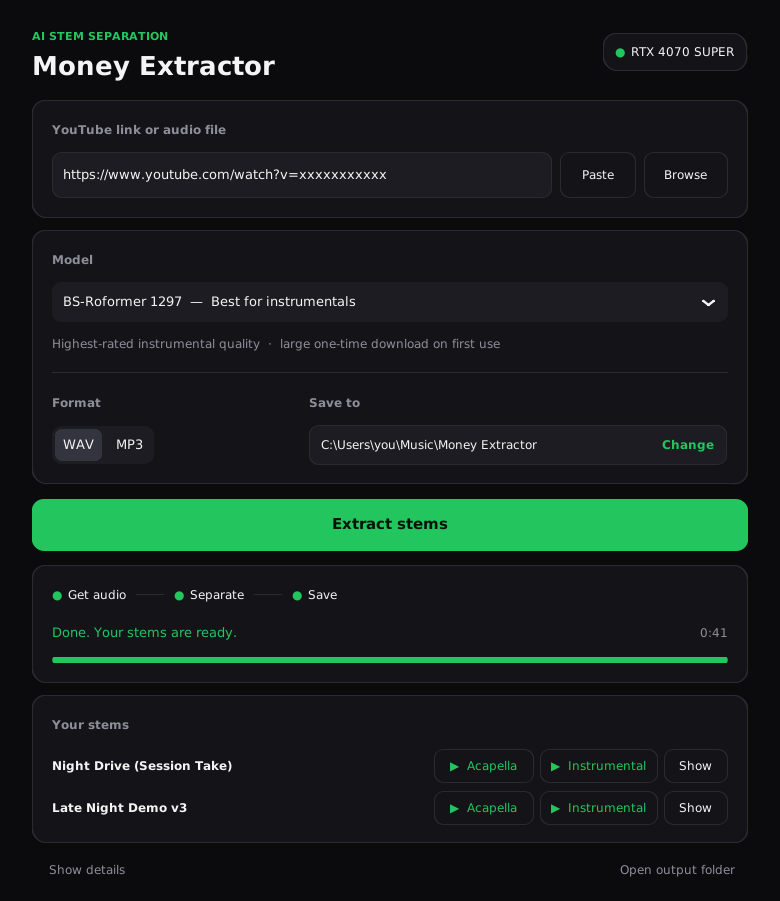
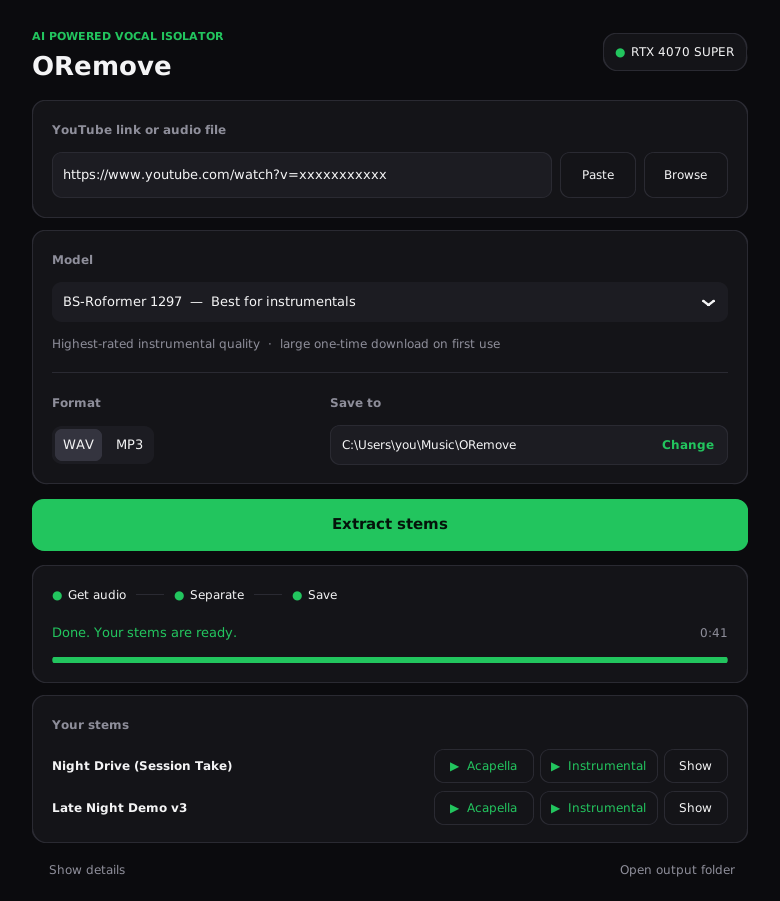
Rename to ORemove - AI Powered Vocal Isolator
App, window, installer, downloads, README and notices now use the new
name.

Changed region(s): [[0.0308, 0.0311, 0.3692, 0.0932], [0.4, 0.4351, 0.6769, 0.4972]]

diff --git a/app.py b/app.py
@@ -1,6 +1,6 @@
 """
-Money Extractor
-===============
+ORemove - AI Powered Vocal Isolator
+===================================
 
 A desktop app that takes a YouTube video or your own audio files and splits
 each into an Acapella (vocals) stem and an Instrumental stem using Ultimate
@@ -57,7 +57,8 @@ except ImportError:  # Friendly message instead of a bare traceback.
 # Configuration
 # --------------------------------------------------------------------------- #
 
-APP_TITLE = "Money Extractor"
+APP_TITLE = "ORemove"
+APP_TAGLINE = "AI Powered Vocal Isolator"
 
 # True when running as the packaged Windows .exe (built with PyInstaller).
 FROZEN = getattr(sys, "frozen", False)
@@ -79,7 +80,7 @@ if FROZEN:
     os.environ["PATH"] = os.pathsep.join(str(d) for d in bundle_dirs) + os.pathsep + os.environ.get("PATH", "")
 
 # The installed app saves to the user's Music folder; from source, next to the script.
-DEFAULT_OUTPUT_DIR = (Path.home() / "Music" / "Money Extractor") if FROZEN else APP_DIR / "output"
+DEFAULT_OUTPUT_DIR = (Path.home() / "Music" / "ORemove") if FROZEN else APP_DIR / "output"
 # UVR models are downloaded here on first use and reused after that.
 MODEL_DIR = APP_DIR / "models"
 # Remembers the chosen model, format and output folder between runs.
@@ -614,7 +615,7 @@ class StemExtractorApp(ctk.CTk):
         super().__init__()
         ctk.set_appearance_mode("dark")
 
-        self.title(APP_TITLE)
+        self.title(f"{APP_TITLE} - {APP_TAGLINE}")
         self.configure(fg_color=BG)
         self.geometry("780x840")
         self.minsize(660, 760)
@@ -702,7 +703,7 @@ class StemExtractorApp(ctk.CTk):
         header.grid(row=0, column=0, sticky="ew", pady=(0, 18))
         header.grid_columnconfigure(0, weight=1)
 
-        self._label(header, "AI STEM SEPARATION", font="eyebrow", color=ACCENT).grid(row=0, column=0, sticky="w")
+        self._label(header, APP_TAGLINE.upper(), font="eyebrow", color=ACCENT).grid(row=0, column=0, sticky="w")
         self._label(header, APP_TITLE, font="title", color=TEXT).grid(row=1, column=0, sticky="w")
 
         # Device chip: shows what the AI engine will run on once it has loaded.

diff --git a/README.md b/README.md
@@ -1,4 +1,5 @@
-<h1 align="center">Money Extractor</h1>
+<h1 align="center">ORemove</h1>
+<h3 align="center">AI Powered Vocal Isolator</h3>
 
 <p align="center">
   <strong>Clean acapellas and instrumentals from any YouTube link or audio file, powered by state-of-the-art UVR AI models.</strong>
@@ -12,7 +13,7 @@
 </p>
 
 <p align="center">
-  <img src="docs/screenshot.png" alt="Money Extractor" width="640">
+  <img src="docs/screenshot.png" alt="ORemove - AI Powered Vocal Isolator" width="640">
 </p>
 
 > [!IMPORTANT]
@@ -41,14 +42,14 @@ Get the latest version from the **[Releases](https://github.com/crawfordj0611-la
 
 | Edition | Works on | Download |
 |---|---|---|
-| **NVIDIA GPU edition** (fastest) | **Only** PCs with an **NVIDIA** GeForce graphics card (GTX 900 series or newer) | All `Money-Extractor-NVIDIA-GPU-Setup` files: the `.exe` and every `.bin` part |
-| **CPU edition** | **Any** 64-bit Windows PC, including PCs with **AMD** or **Intel** graphics | `Money-Extractor-Windows-CPU.zip` |
+| **NVIDIA GPU edition** (fastest) | **Only** PCs with an **NVIDIA** GeForce graphics card (GTX 900 series or newer) | All `ORemove-NVIDIA-GPU-Setup` files: the `.exe` and every `.bin` part |
+| **CPU edition** | **Any** 64-bit Windows PC, including PCs with **AMD** or **Intel** graphics | `ORemove-Windows-CPU.zip` |
 
 **Not sure which graphics card you have?** Open **Task Manager → Performance** and look at the **GPU** entries. If none of them says **NVIDIA**, download the CPU edition.
 
-**NVIDIA GPU edition:** save the `.exe` and all `.bin` parts into the same folder, then run `Money-Extractor-NVIDIA-GPU-Setup.exe`. If it can't find an NVIDIA graphics card, the installer warns you before installing anything. The installer is split into parts because GitHub limits each file to 2 GB. It installs for your user only (no admin rights needed), adds a Start Menu shortcut, and can be removed from **Settings → Apps**. Installing a new version upgrades the old one and keeps your downloaded models and settings.
+**NVIDIA GPU edition:** save the `.exe` and all `.bin` parts into the same folder, then run `ORemove-NVIDIA-GPU-Setup.exe`. If it can't find an NVIDIA graphics card, the installer warns you before installing anything. The installer is split into parts because GitHub limits each file to 2 GB. It installs for your user only (no admin rights needed), adds a Start Menu shortcut, and can be removed from **Settings → Apps**. Installing a new version upgrades the old one and keeps your downloaded models and settings.
 
-**CPU edition:** extract the zip and run `Money Extractor.exe` inside the folder. Nothing is installed.
+**CPU edition:** extract the zip and run `ORemove.exe` inside the folder. Nothing is installed.
 
 > Windows SmartScreen may warn that the app is unrecognised because it isn't code-signed. Click **More info**, then **Run anyway**.
 
@@ -75,12 +76,12 @@ The BS-Roformer models are a large one-time download each, stored in the app's `
 ## Output
 
 ```
-Music\Money Extractor\
+Music\ORemove\
 ├── acapellas\       <Song or video title> (Acapella).wav
 └── instrumentals\   <Song or video title> (Instrumental).wav
 ```
 
-The default folder is `Music\Money Extractor`. Click **Change** to pick another; the app remembers it. Running the same song again saves `… (Acapella) (2).wav` instead of overwriting.
+The default folder is `Music\ORemove`. Click **Change** to pick another; the app remembers it. Running the same song again saves `… (Acapella) (2).wav` instead of overwriting.
 
 ## System requirements
 
@@ -162,10 +163,10 @@ The [Windows build workflow](.github/workflows/windows-build.yml) builds both ed
 
 Only separate audio you own or have permission to use, such as your own productions, licensed material, or content whose rights holder allows it. Downloading from YouTube may be restricted by YouTube's Terms of Service. You are responsible for how you use this software and anything you create with it.
 
-Money Extractor is not affiliated with, endorsed by or sponsored by YouTube, Google, or the Ultimate Vocal Remover project.
+ORemove is not affiliated with, endorsed by or sponsored by YouTube, Google, or the Ultimate Vocal Remover project.
 
 ## License
 
-Money Extractor is released under the [MIT License](LICENSE).
+ORemove is released under the [MIT License](LICENSE).
 
 It builds on outstanding open-source work, including [Ultimate Vocal Remover](https://github.com/Anjok07/ultimatevocalremovergui) and its model authors, [audio-separator](https://github.com/nomadkaraoke/python-audio-separator), [yt-dlp](https://github.com/yt-dlp/yt-dlp), [PyTorch](https://pytorch.org), [FFmpeg](https://ffmpeg.org) and [CustomTkinter](https://github.com/TomSchimansky/CustomTkinter). See [THIRD-PARTY-NOTICES.md](THIRD-PARTY-NOTICES.md) for their licenses and for notes on the AI models. Each download also includes the full license texts.

diff --git a/THIRD-PARTY-NOTICES.md b/THIRD-PARTY-NOTICES.md
@@ -1,6 +1,6 @@
 # Third-party notices
 
-Money Extractor's own code is MIT-licensed (see [LICENSE](LICENSE)). The Windows
+ORemove's own code is MIT-licensed (see [LICENSE](LICENSE)). The Windows
 downloads also bundle the open-source components below, each under its own
 license. The full license text of every bundled Python package is included in
 the download as `THIRD-PARTY-LICENSES.txt`, generated when the app is built.
@@ -23,7 +23,7 @@ the download as `THIRD-PARTY-LICENSES.txt`, generated when the app is built.
 
 The downloads include `ffmpeg.exe` and `ffprobe.exe` from the LGPL builds at
 <https://github.com/BtbN/FFmpeg-Builds>. They are separate programs that
-Money Extractor runs; they are not modified. FFmpeg is licensed under the
+ORemove runs; they are not modified. FFmpeg is licensed under the
 GNU Lesser General Public License version 2.1 or later. Its source code is
 available at <https://ffmpeg.org/download.html> and
 <https://github.com/FFmpeg/FFmpeg>, and the exact build used is recorded in
@@ -42,12 +42,12 @@ this project:
 
 Several separation models were trained on research datasets with
 non-commercial terms, and model weights often carry their own licenses or
-none. Money Extractor is distributed free of charge; if you intend any
+none. ORemove is distributed free of charge; if you intend any
 commercial use of the models or their output, check the terms of each model
 first.
 
 ## Trademarks
 
-YouTube is a trademark of Google LLC. Money Extractor is not affiliated with,
+YouTube is a trademark of Google LLC. ORemove is not affiliated with,
 endorsed by or sponsored by YouTube, Google, or the Ultimate Vocal Remover
 project.
